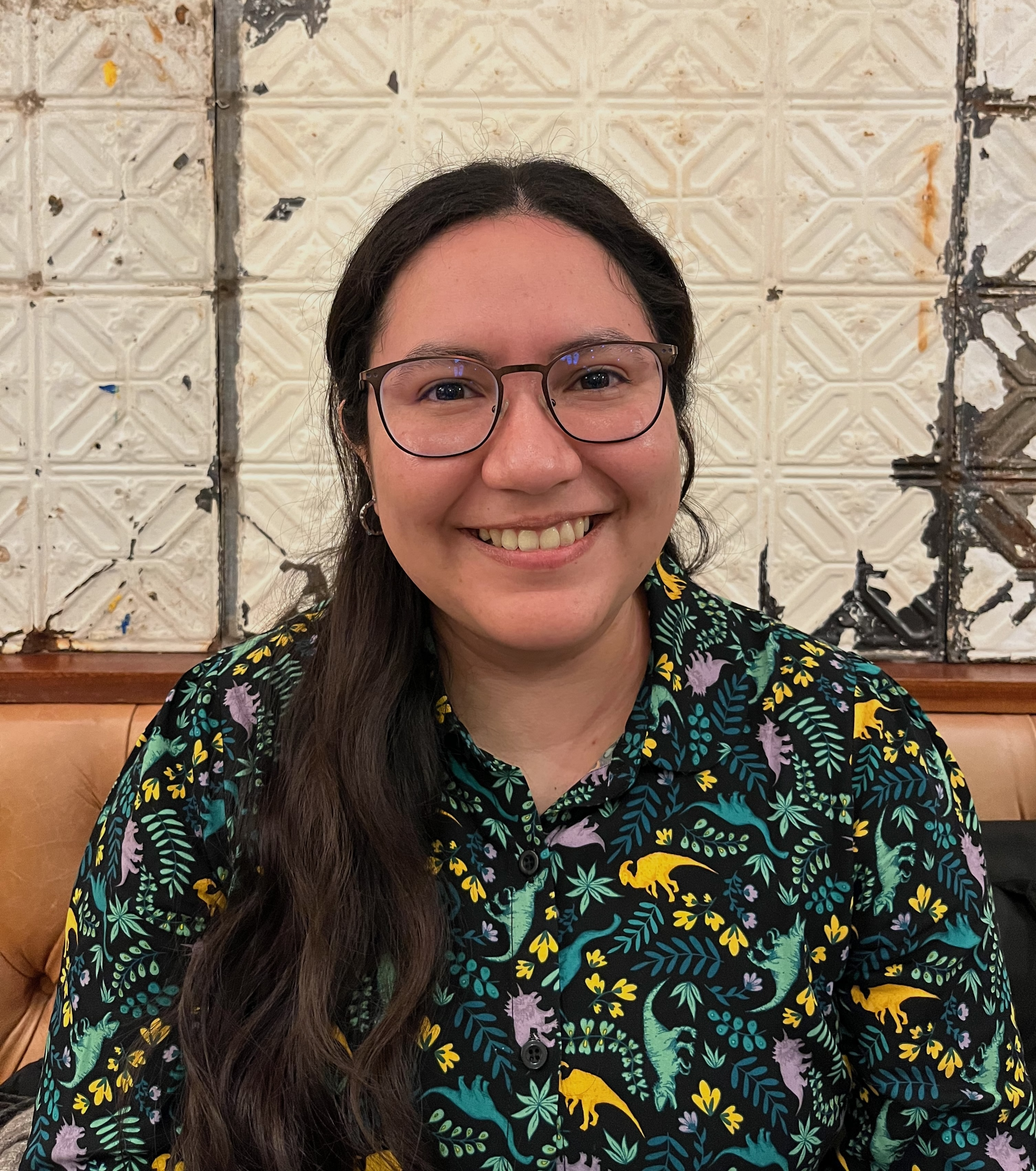
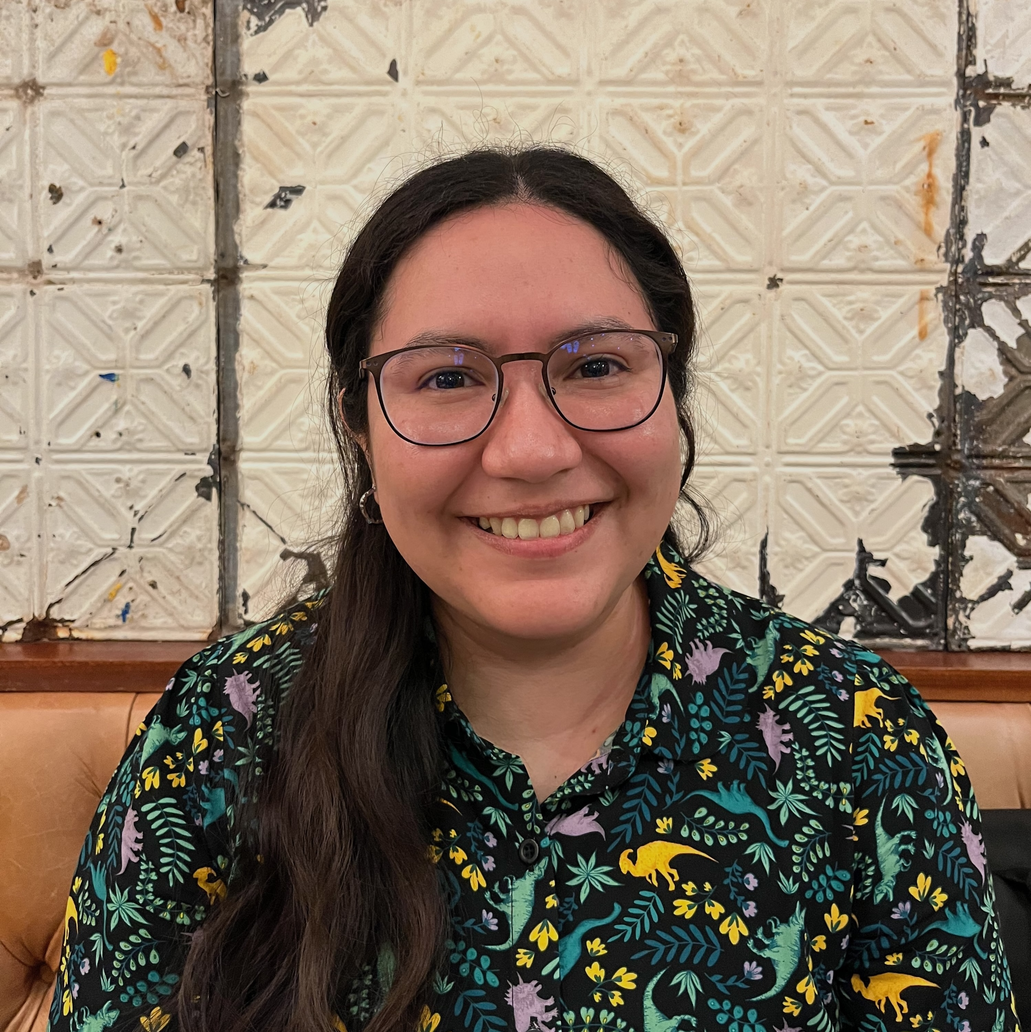
About folder added
About folder and file, picture fixed, favicon of telescope

diff --git a/content/about/about.md b/content/about/about.md
@@ -1,0 +1,17 @@
+---
+layout: page
+title: about
+permalink: /about/
+---
+
+Hola! I'm a Chilean astronomer working at the University of St Andrews as a Posdoctoral Research Fellow in the group of Prof. Andrew C. Cameron. I obtained my Ph.D. in Astrophysics from the Laboratoire d'Astrophysique de Marseille of the Aix-Marseille Universite in France in 2023. Previously I earned my B.Sc and M.Sc in Astronomy degrees from Universidad de Chile, in Santiago, Chile. My research is mainly focused on Exoplanets but I did some research on the dark side (Galaxies at high-z) during my undergrad years.
+
+During my M.Sc, I worked looking for Transit Timing Variations (TTV) in hot Jupiters systems within the [Transit Monitoring in the South](https://arxiv.org/abs/2001.11112) (TraMoS) project. I studied three known hot Jupiters: WASP-18b, WASP-19b, WASP-77Ab combining ground-based photometry from meter-class telescopes and TESS data. Our time span of almost ten years of observations allowed us to ruled out the presence of close-in companions in resonance.
+
+For my PhD I studied the chromaticity of the stellar activity signal of M dwarfs using optical and nIR spectra from SOPHIE and SPIRou to improve the detection of low-mass planets. In particular, I lead [the study of Gl 205](https://www.aanda.org/articles/aa/pdf/2023/05/aa45131-22.pdf), an early M dwarf with no planets detected but with similar stellar activity contributions in the optical and nIR RVs. For this, I modeled the activity RVs using multi-dimensional Gaussian Processes in both domains. 
+
+Currently, I'm focused in the detection and characterization of exoplanets as a part of the HARPS-N, CHEOPS and PLATO consortia. I'm also extending my work in the use of multi-dimensional GPs looking for ways to use new activity indicators.
+
+In 2018, with a marvelous group of female colleagues/friends, we founded the "Cazadoras de Estrellas" project. This project aims to travel around Chile making astronomy workshops for high school girls interested in astronomy and sciences. We have been funded through two ESO grants and in 2019, we were shortlisted in the Nature Innovating Science award.
+
+Doing outreach especially for underrepresented groups in science is something that I enjoyed very much. I spend my free time reading novels, cooking new recipes, trying not to kill my plants, and tasting scottish whisky.
